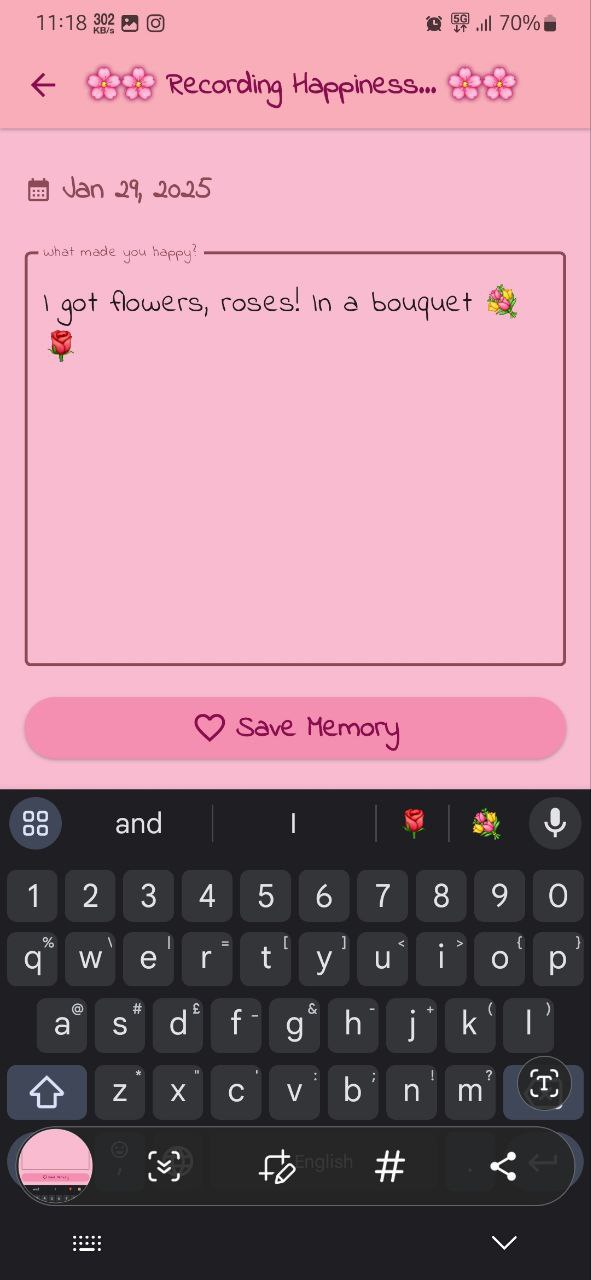
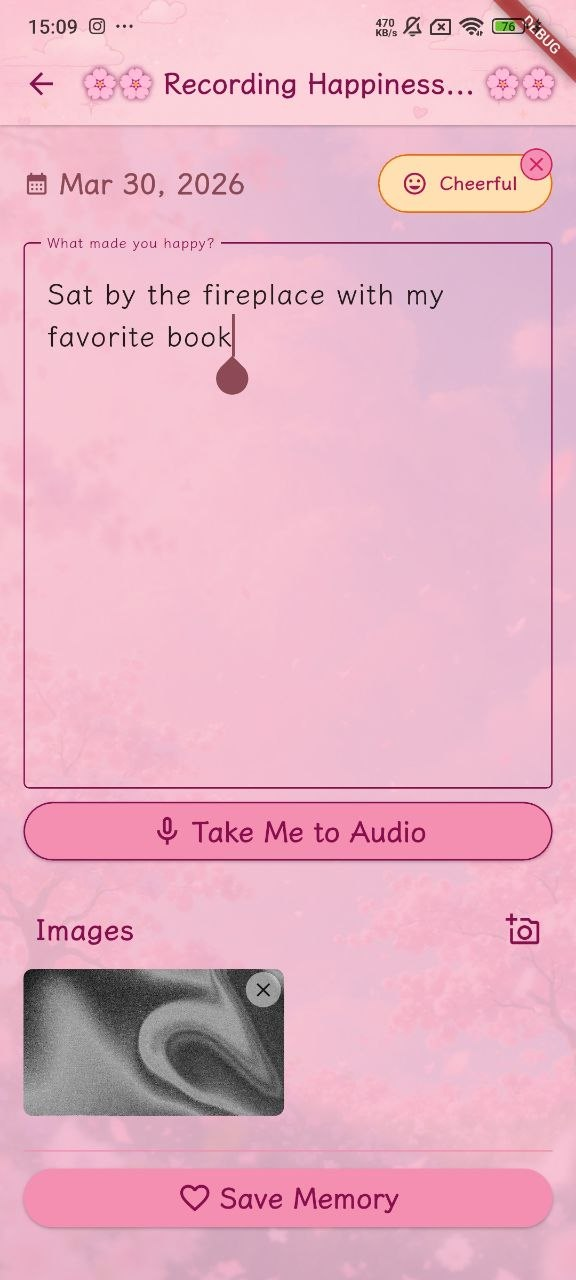
modified git ignore

diff --git a/ios/Runner/AppDelegate.swift b/ios/Runner/AppDelegate.swift
@@ -1,6 +1,7 @@
 import Flutter
 import UIKit
 import flutter_local_notifications
+import workmanager_apple
 
 @main
 @objc class AppDelegate: FlutterAppDelegate {
@@ -18,6 +19,14 @@ import flutter_local_notifications
     }
 
     GeneratedPluginRegistrant.register(with: self)
+    WorkmanagerPlugin.registerBGProcessingTask(
+      withIdentifier: "np.com.anupamdahal.adiary.bgNotificationTasksOneOffs"
+    )
+
+    WorkmanagerPlugin.registerPeriodicTask(
+      withIdentifier: "np.com.anupamdahal.adiary.bgNotificationTasks",
+      frequency: NSNumber(value: 15 * 60)
+    )
     return super.application(application, didFinishLaunchingWithOptions: launchOptions)
   }
 }

diff --git a/lib/screens/add_entry.dart b/lib/screens/add_entry.dart
@@ -195,6 +195,7 @@ class _AddEntryState extends State<AddEntry> {
   @override
   Widget build(BuildContext context) {
     return Scaffold(
+      resizeToAvoidBottomInset: false,
       backgroundColor: PinkColors.shade100,
       appBar: AppBar(
         flexibleSpace: constants.appBarBg,

diff --git a/README.md b/README.md
@@ -2,6 +2,30 @@
 Record your best memories and relive them when you're down. Cause we tend to forgot the good times and get stuck on the bad ones.
 
 # Release Notes
+## Version 3.0.0
+
+### Features Added
+- Record Audio because good feeling is best recorded in your voice
+- Authenticate with password if local authentication is not enabled
+- Can Add a feeling (Mood) to each entry
+- Ability to delete an entry (if needed)
+- Data highlights
+- Visualizations with Charts and Mood Cloud
+- Different kinds of notification with individual toggles
+  - Daily Reminders to record an entry
+  - Memories (This day x years ago)
+  - Weekly Recap
+- Image Gallery now has infinite loop
+
+### Other Changes
+- UI/UX enhancements
+  - Updated font
+  - Splash Screen
+  - Backgorund images
+  - Icons updates
+  - Logo update
+- App operational improvements
+
 ## Version 2.0.0
 
 ### Features Added
@@ -30,13 +54,23 @@ Install the latest APK package from Releases Section of this repository. And Enj
 # To build it yourself
 1. Get the Flutter Developement Environment setup. There's lots of resource available online for this.
 2. Clone the repo
-3. Now build your app. 
-4. Enjoy
+3. Create required files for launch icon
+    ```
+    flutter pub run flutter_launcher_icons 
+    ```
+4. Create required files for splash screen
+    ```
+    dart run flutter_native_splash:create --path=flutter_native_splash.yaml
+    ```
+5. Now build your app. 
+6. Enjoy
 
 # Screenshots
 <img src='screenshots/01.jpg' width="200px"> <img src='screenshots/02.jpg' width="200px"> <img src='screenshots/03.jpg' width="200px">
-<img src='screenshots/04.jpg' width="200px"> <img src='screenshots/05.jpg' width="200px">
-
+<img src='screenshots/04.jpg' width="200px"> <img src='screenshots/05.jpg' width="200px"> <img src='screenshots/06.jpg' width="200px">
+<img src='screenshots/07.jpg' width="200px"> <img src='screenshots/08.jpg' width="200px"> <img src='screenshots/09.jpg' width="200px">
+<img src='screenshots/10.jpg' width="200px"> <img src='screenshots/11.jpg' width="200px"> <img src='screenshots/12.jpg' width="200px">
+<img src='screenshots/13.jpg' width="200px"> <img src='screenshots/14.jpg' width="200px">
 
 # Contributing
 I am accepting pull requests if you want to contribute.
